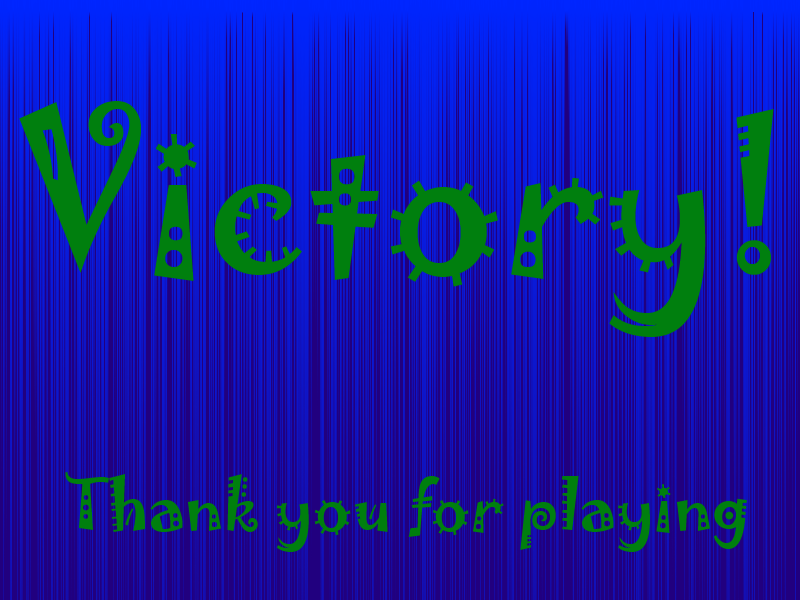
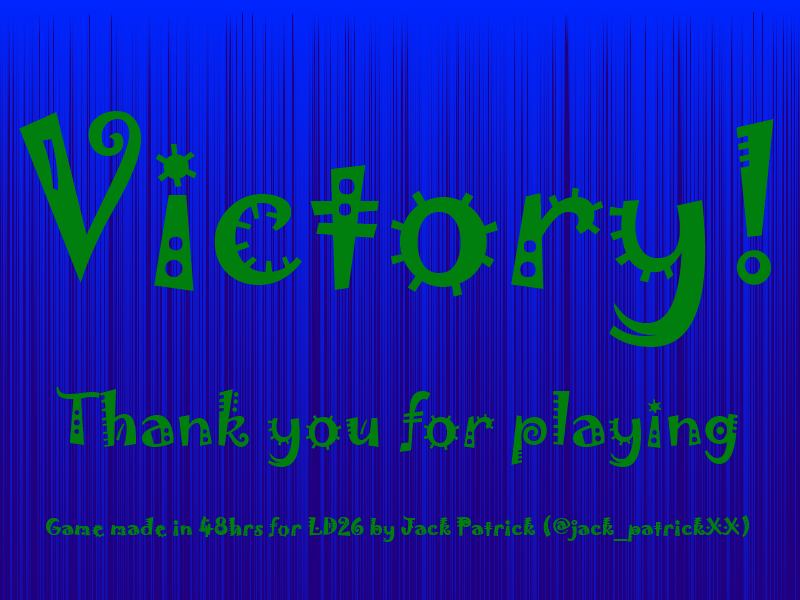
Added difficulty levels

diff --git a/src/me/jack/ld26/States/DifficultySelectState.java b/src/me/jack/ld26/States/DifficultySelectState.java
@@ -1,0 +1,114 @@
+package me.jack.ld26.States;
+
+import me.jack.ld26.Level.Level;
+import org.lwjgl.input.Mouse;
+import org.newdawn.slick.Color;
+import org.newdawn.slick.GameContainer;
+import org.newdawn.slick.Graphics;
+import org.newdawn.slick.SlickException;
+import org.newdawn.slick.state.BasicGameState;
+import org.newdawn.slick.state.StateBasedGame;
+
+import java.awt.Rectangle;
+import java.util.ArrayList;
+
+/**
+ * Author: Jack
+ * Date: 28/04/13
+ */
+public class DifficultySelectState extends BasicGameState {
+
+
+    @Override
+    public void init(GameContainer gameContainer, StateBasedGame stateBasedGame) throws SlickException {
+
+    }
+
+    int x = 0;
+    int y = 0;
+
+    int width = 0;
+
+    ArrayList<Rectangle> rects = new ArrayList<Rectangle>();
+
+    @Override
+    public void render(GameContainer gameContainer, StateBasedGame stateBasedGame, Graphics graphics) throws SlickException {
+        graphics.drawString("Please select your difficulty:", x, y);
+
+        graphics.setColor(Color.gray);
+        y += 64;
+        graphics.fillRect(x, y, width, 32);
+        graphics.setColor(Color.white);
+        graphics.drawString("Easy", x + ((width / 2) - (graphics.getFont().getWidth(
+                "Easy")/2)),y + (16 - graphics.getFont().getHeight("Easy")/2));
+    if(rects.size() == 0){
+        rects.add(new Rectangle(x,y,width,32));
+    }
+        y += 10;
+
+        rects.add(new Rectangle(x,y,width,32));
+        graphics.setColor(Color.gray);
+        y += 64;
+        graphics.fillRect(x, y, width, 32);
+        graphics.setColor(Color.white);
+        graphics.drawString("Normal", x + ((width / 2) - (graphics.getFont().getWidth(
+                "Normal")/2)),y + (16 - graphics.getFont().getHeight("Normal")/2));
+        if(rects.size() == 1)
+        rects.add(new Rectangle(x,y,width,32));
+        y += 10;
+
+        graphics.setColor(Color.gray);
+        y += 64;
+        graphics.fillRect(x, y, width, 32);
+        graphics.setColor(Color.white);
+        graphics.drawString("Hard", x + ((width / 2) - (graphics.getFont().getWidth(
+                "Hard")/2)),y + (16 - graphics.getFont().getHeight("Hard")/2));
+        if(rects.size() == 2)
+        rects.add(new Rectangle(x,y,width,32));
+        y += 10;
+
+    }
+
+    boolean next = false;
+    @Override
+    public void mouseReleased(int button, int x, int y) {
+        super.mouseReleased(button, x, y);
+        System.out.println(rects.size());
+        int  i= 0;
+        for(Rectangle r : rects){
+            if(r.contains(x,y)){
+
+                if(i == 1){
+                    Level.timeTillEnd = 60;
+                }else if(i==2){
+                    Level.timeTillEnd = 90;
+                }else{
+                    Level.timeTillEnd = 120;
+                }
+                     next = true;
+
+            }
+            i=+1;
+        }
+
+    }
+
+    @Override
+    public void update(GameContainer gameContainer, StateBasedGame stateBasedGame, int i) throws SlickException {
+        x = (gameContainer.getWidth() / 2) - (gameContainer.getGraphics().getFont().getWidth("Please select your difficulty:") / 2);
+        y = 50;
+
+        width = gameContainer.getGraphics().getFont().getWidth("Please select your difficulty:");
+    if(next)
+        stateBasedGame.enterState(0);
+
+
+
+    }
+
+
+    @Override
+    public int getID() {
+        return 4;
+    }
+}

diff --git a/src/me/jack/ld26/States/IntroState.java b/src/me/jack/ld26/States/IntroState.java
@@ -33,21 +33,31 @@ public class IntroState extends BasicGameState{
     @Override
     public void enter(GameContainer container, StateBasedGame game) throws SlickException {
         super.enter(container, game);
-        SoundEngine.getInstance().addSound("shot", SoundUtils.loadSound("/res/sound/shot.wav"));
-        SoundEngine.getInstance().addSound("aoe",SoundUtils.loadSound("/res/sound/aoe.wav"));
-        SoundEngine.getInstance().addSound("nope",SoundUtils.loadSound("/res/sound/nope.wav"));
-        SoundEngine.getInstance().addSound("buy",SoundUtils.loadSound("/res/sound/buy.wav"));
+
     }
+
+    boolean draw = false;
+    boolean loaded =false;
 
     @Override
     public void render(GameContainer gameContainer, StateBasedGame stateBasedGame, Graphics graphics) throws SlickException {
         graphics.drawImage(intro,0,0);
+        draw = true;
     }
 
     @Override
     public void update(GameContainer gameContainer, StateBasedGame stateBasedGame, int i) throws SlickException {
+        if(draw && !loaded){
+            System.out.println("Loading");
+            SoundEngine.getInstance().addSound("shot", SoundUtils.loadSound("/res/sound/shot.wav"));
+            SoundEngine.getInstance().addSound("aoe",SoundUtils.loadSound("/res/sound/aoe.wav"));
+            SoundEngine.getInstance().addSound("nope",SoundUtils.loadSound("/res/sound/nope.wav"));
+            SoundEngine.getInstance().addSound("buy",SoundUtils.loadSound("/res/sound/buy.wav"));
+            loaded= true;
+        }
         if(Keyboard.isKeyDown(Keyboard.KEY_SPACE)){
             stateBasedGame.enterState(1);
         }
+
     }
 }

diff --git a/src/me/jack/ld26/States/InGame.java b/src/me/jack/ld26/States/InGame.java
@@ -7,6 +7,7 @@ import org.newdawn.slick.state.BasicGameState;
 import org.newdawn.slick.state.StateBasedGame;
 
 import java.awt.Rectangle;
+import java.util.HashMap;
 
 /**
  * Author: Jack
@@ -20,6 +21,18 @@ public class InGame extends BasicGameState {
 
 
     long timePassed = 0;
+
+
+    public static final HashMap<String,Integer> difficulty = new HashMap<String,Integer>();
+
+    static{
+        difficulty.put("EASY",60);
+        difficulty.put("NORMAL",90);
+        difficulty.put("HARD",120);
+    }
+
+
+
 
     @Override
     public void init(GameContainer gameContainer, StateBasedGame stateBasedGame) throws SlickException {
@@ -58,7 +71,7 @@ public class InGame extends BasicGameState {
             stateBasedGame.enterState(3);
             enterShop = false;
         }
-        if((timePassed / 1000) >= 60){
+        if((timePassed / 1000) >= level.timeTillEnd){
             GameOver.won();
             stateBasedGame.enterState(2);
             return;

diff --git a/src/me/jack/ld26/Entity/BasicEnemy.java b/src/me/jack/ld26/Entity/BasicEnemy.java
@@ -48,7 +48,7 @@ public class BasicEnemy extends Entity {
         if (level.slow)
             moveSpeed = 1;
         else
-            moveSpeed = 2;
+            moveSpeed = 1;
         if (x > tx) {
             xMove = -moveSpeed;
         } else if (x < tx) {
@@ -76,7 +76,7 @@ public class BasicEnemy extends Entity {
 
     public void checkFollowing(Level level) {
         Circle pRad = new Circle(level.player.getShape().getCenterX(), level.player.getShape().getCenterY(), 128);
-        if (shape.intersects(pRad)) {
+        if (shape.intersects(pRad) && !(following instanceof DistractionBomb)) {
             this.followingPlayer = true;
         } else {
             if (!followingPlayer)

diff --git a/src/me/jack/ld26/LD26Game.java b/src/me/jack/ld26/LD26Game.java
@@ -2,10 +2,7 @@ package me.jack.ld26;
 
 import me.jack.ld26.Entity.EntityPlayer;
 import me.jack.ld26.Level.Level;
-import me.jack.ld26.States.GameOver;
-import me.jack.ld26.States.InGame;
-import me.jack.ld26.States.IntroState;
-import me.jack.ld26.States.ShopState;
+import me.jack.ld26.States.*;
 import org.lwjgl.input.Mouse;
 
 import org.newdawn.slick.GameContainer;
@@ -31,6 +28,7 @@ public class LD26Game extends StateBasedGame {
         Font f = new Font("Calibri",Font.PLAIN,34);
         font = new TrueTypeFont(f,false);
 
+        addState(new DifficultySelectState());
         addState(new IntroState());
         addState(new InGame());
         addState(new GameOver());

diff --git a/src/me/jack/ld26/Level/Level.java b/src/me/jack/ld26/Level/Level.java
@@ -17,6 +17,7 @@ import java.util.concurrent.CopyOnWriteArrayList;
 public class Level {
 
 
+    public static int timeTillEnd = 60;
     public CopyOnWriteArrayList<Entity> entitys = new CopyOnWriteArrayList<Entity>();
 
     public EntityPlayer player;
@@ -117,6 +118,7 @@ public class Level {
 
     public void update(GameContainer arg0) {
 
+        System.out.println(timeTillEnd);
         player.update(this, arg0);
         for (Entity e : entitys) {
             e.update(this, arg0);

diff --git a/src/me/jack/ld26/States/GameOver.java b/src/me/jack/ld26/States/GameOver.java
@@ -38,6 +38,7 @@ public class GameOver extends BasicGameState{
         graphics.drawString("You survived " + seconds + " seconds!",50,276);
         graphics.drawString("You reached round " + levelReached,50,300);
         graphics.drawString("Thank you for playing!",50,330);
+        graphics.drawString("Game made by Jack Patrick (@jack_patrickXx) for LD26",50,360);
     }
 
     @Override

diff --git a/src/me/jack/ld26/Entity/EntityPlayerProjectile.java b/src/me/jack/ld26/Entity/EntityPlayerProjectile.java
@@ -54,9 +54,9 @@ public class EntityPlayerProjectile extends Entity{
             if (l.towerPower >= 100) {
                 l.towerPower = 100;
             } else
-                l.towerPower += 2;
+                l.towerPower += 5;
 
-                l.money += 5;
+                l.money += 10;
                 die(l);
             e.die(l);
         }
